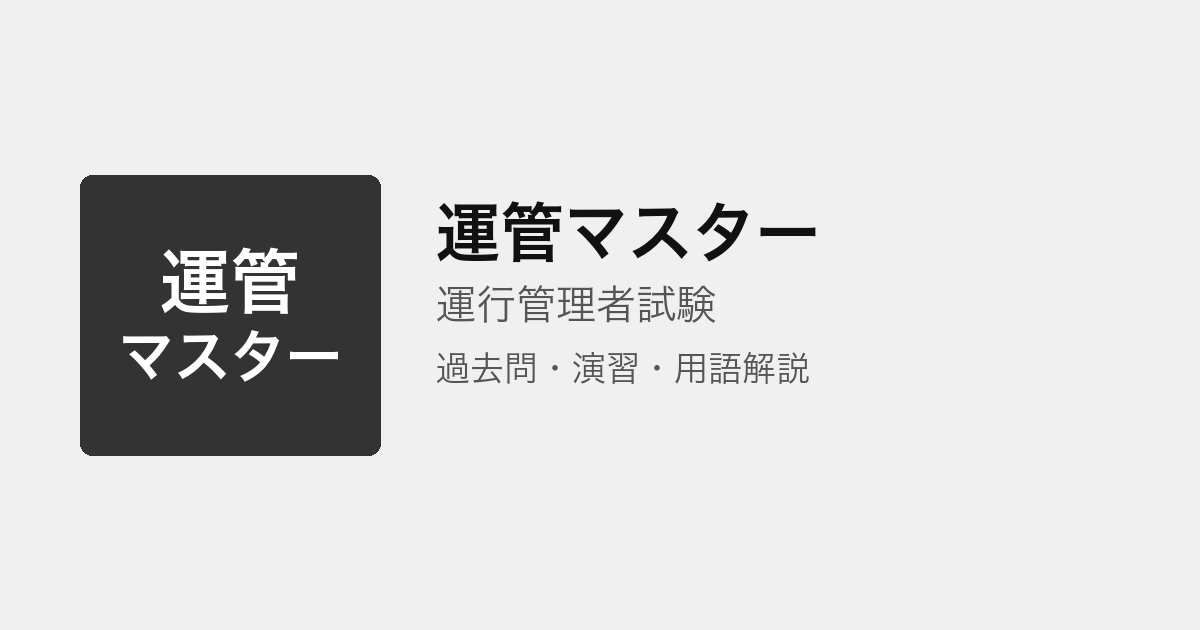
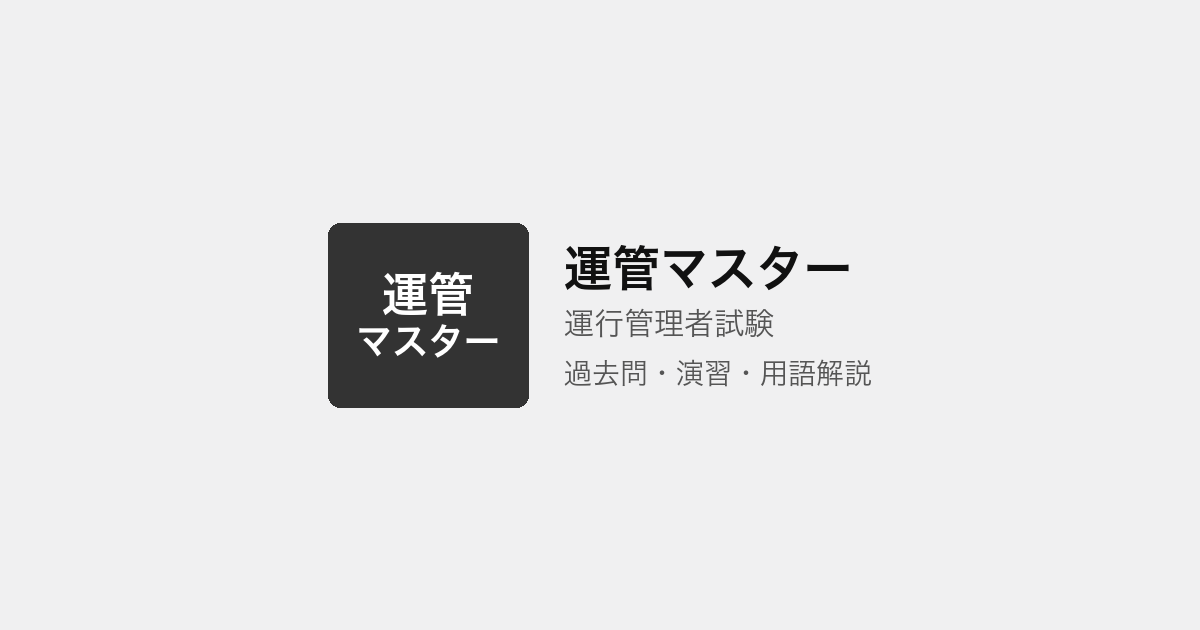
fix: OGP 画像の見切れを修正（中央安全域レイアウト）
SNS プレビューの 1:1 クロップでもロゴが切れないよう再生成した。

Changed region(s): [[0.0617, 0.2714, 0.74, 0.7238]]

diff --git a/tools/brand_assets.py b/tools/brand_assets.py
@@ -20,6 +20,10 @@ from tools.site_config import (
 
 BRAND_DIR = "assets/brand"
 MARKER = "<!--BRAND_ASSET_HEAD-->"
+OG_WIDTH = 1200
+OG_HEIGHT = 630
+# SNS の 1:1 中央クロップ（630×630）でも切れないよう、コンテンツ幅をこの範囲に収める
+OG_SAFE_WIDTH = 620
 
 
 def _font_candidates(*, bold: bool) -> list[Path]:
@@ -172,42 +176,130 @@ def render_favicon(size: int):
 def render_og_image():
     from PIL import Image, ImageDraw
 
-    w, h = 1200, 630
+    w, h = OG_WIDTH, OG_HEIGHT
     top, bottom = brand_logo_lines()
     name = brand_name()
     exam = exam_name()
+    tagline = "過去問・演習・用語解説"
     bg = theme_page_bg()
     ink = theme_ink()
-    text = theme_text()
+    text_col = theme_text()
     muted = theme_text_muted()
+
+    measure = Image.new("RGB", (w, h), bg)
+    mdraw = ImageDraw.Draw(measure)
+
+    gap = 36
+    name_gap, exam_gap = 16, 22
+    layout = None
+    for box_w in (200, 180, 160, 140, 120):
+        box_h = max(110, int(box_w * 0.92))
+        text_max_w = OG_SAFE_WIDTH - box_w - gap
+        name_font, name_size = _fit_font(mdraw, name, text_max_w, 48, bold=True)
+        exam_font, exam_size = _fit_font(mdraw, exam, text_max_w, 30, bold=False)
+        tag_font, tag_size = _fit_font(mdraw, tagline, text_max_w, 28, bold=False)
+        text_w = max(
+            mdraw.textlength(name, font=name_font),
+            mdraw.textlength(exam, font=exam_font),
+            mdraw.textlength(tagline, font=tag_font),
+        )
+        text_h = name_size + name_gap + exam_size + exam_gap + tag_size
+        content_w = box_w + gap + int(text_w)
+        content_h = max(box_h, text_h)
+        if content_w <= OG_SAFE_WIDTH:
+            layout = {
+                "box_w": box_w,
+                "box_h": box_h,
+                "gap": gap,
+                "name_font": name_font,
+                "name_size": name_size,
+                "exam_font": exam_font,
+                "exam_size": exam_size,
+                "tag_font": tag_font,
+                "tag_size": tag_size,
+                "text_h": text_h,
+                "content_w": content_w,
+                "content_h": content_h,
+            }
+            break
 
     img = Image.new("RGB", (w, h), bg)
     draw = ImageDraw.Draw(img)
 
-    box_w, box_h = 300, 280
-    box_x, box_y = 80, (h - box_h) // 2
+    if layout is None:
+        # 横並びが収まらない場合: ロゴ＋テキストを縦積みで中央配置
+        mark_w, mark_h = 220, 200
+        text_max_w = OG_SAFE_WIDTH - 40
+        name_font, name_size = _fit_font(mdraw, name, text_max_w, 44, bold=True)
+        exam_font, exam_size = _fit_font(mdraw, exam, text_max_w, 28, bold=False)
+        tag_font, tag_size = _fit_font(mdraw, tagline, text_max_w, 26, bold=False)
+        stack_gap, line_gap = 28, 14
+        content_w = int(
+            max(
+                mark_w,
+                mdraw.textlength(name, font=name_font),
+                mdraw.textlength(exam, font=exam_font),
+                mdraw.textlength(tagline, font=tag_font),
+            )
+        )
+        content_h = mark_h + stack_gap + name_size + line_gap + exam_size + line_gap + tag_size
+        block_x = (w - content_w) // 2
+        block_y = (h - content_h) // 2
+        _draw_logo_mark(
+            draw,
+            x=block_x + (content_w - mark_w) // 2,
+            y=block_y,
+            width=mark_w,
+            height=mark_h,
+            top=top,
+            bottom=bottom,
+            bg=ink,
+            fg="#ffffff",
+            radius=12,
+        )
+        ty = block_y + mark_h + stack_gap
+        draw.text((block_x + (content_w - mdraw.textlength(name, font=name_font)) / 2, ty), name, fill=text_col, font=name_font)
+        ty += name_size + line_gap
+        draw.text((block_x + (content_w - mdraw.textlength(exam, font=exam_font)) / 2, ty), exam, fill=muted, font=exam_font)
+        ty += exam_size + line_gap
+        draw.text((block_x + (content_w - mdraw.textlength(tagline, font=tag_font)) / 2, ty), tagline, fill=muted, font=tag_font)
+        return img
+
+    block_x = (w - layout["content_w"]) // 2
+    block_y = (h - layout["content_h"]) // 2
+    box_x = block_x
+    box_y = block_y + (layout["content_h"] - layout["box_h"]) // 2
+    tx = block_x + layout["box_w"] + layout["gap"]
+    ty = block_y + (layout["content_h"] - layout["text_h"]) // 2
+
     _draw_logo_mark(
         draw,
         x=box_x,
         y=box_y,
-        width=box_w,
-        height=box_h,
+        width=layout["box_w"],
+        height=layout["box_h"],
         top=top,
         bottom=bottom,
         bg=ink,
         fg="#ffffff",
         radius=12,
     )
-
-    tx = box_x + box_w + 56
-    name_font, name_size = _fit_font(draw, name, w - tx - 80, 64, bold=True)
-    exam_font, exam_size = _fit_font(draw, exam, w - tx - 80, 40, bold=False)
-    tagline = "過去問・演習・用語解説"
-    tag_font, _ = _fit_font(draw, tagline, w - tx - 80, 34, bold=False)
-
-    draw.text((tx, box_y + 24), name, fill=text, font=name_font)
-    draw.text((tx, box_y + 24 + name_size + 20), exam, fill=muted, font=exam_font)
-    draw.text((tx, box_y + 24 + name_size + 20 + exam_size + 28), tagline, fill=muted, font=tag_font)
+    draw.text((tx, ty), name, fill=text_col, font=layout["name_font"])
+    draw.text(
+        (tx, ty + layout["name_size"] + name_gap),
+        exam,
+        fill=muted,
+        font=layout["exam_font"],
+    )
+    draw.text(
+        (
+            tx,
+            ty + layout["name_size"] + name_gap + layout["exam_size"] + exam_gap,
+        ),
+        tagline,
+        fill=muted,
+        font=layout["tag_font"],
+    )
     return img
 
 